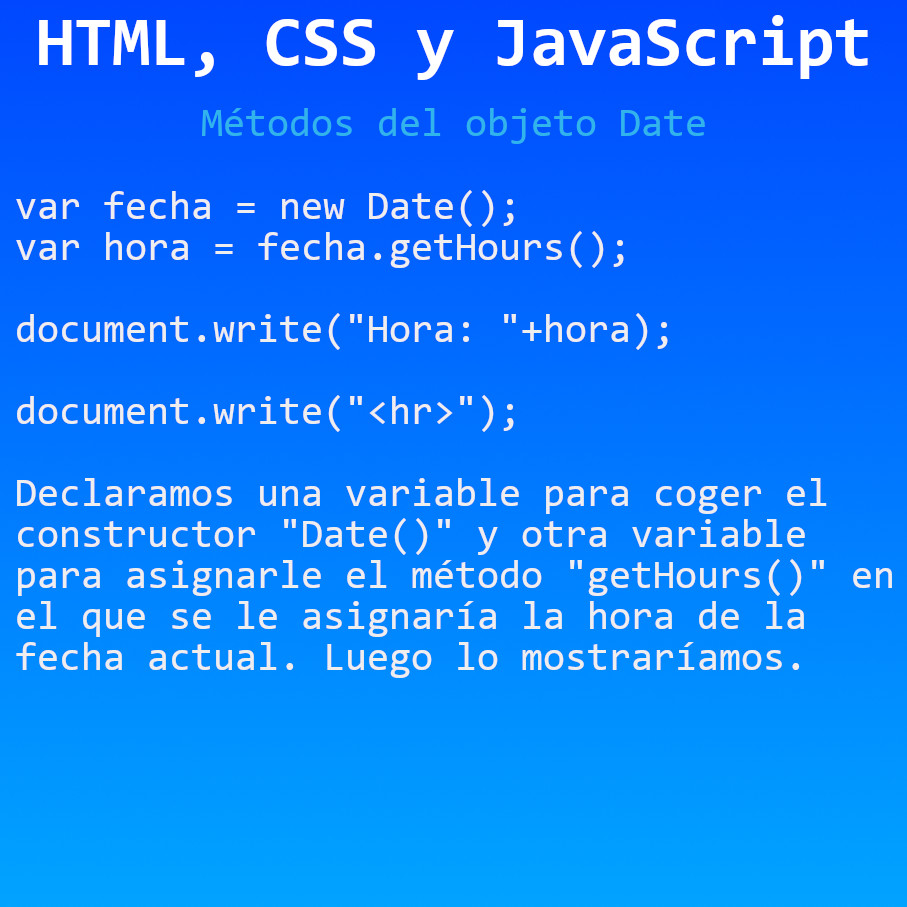
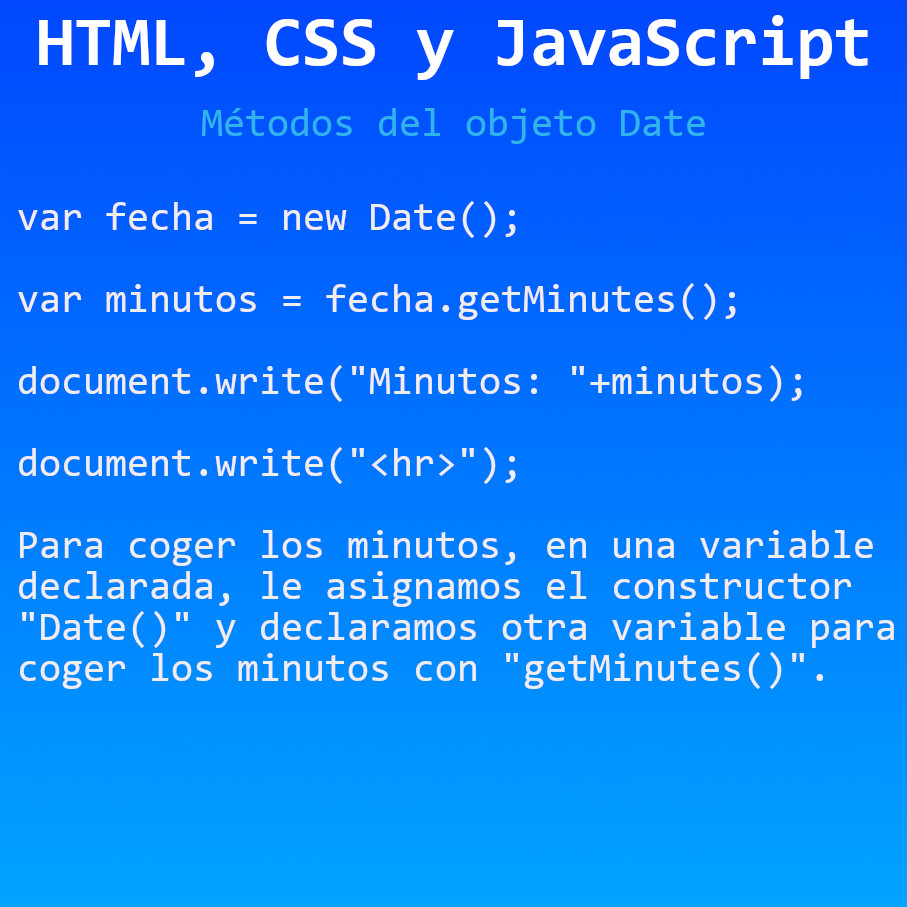
Métodos del objeto Date
Métodos del objeto Date en JavaScript

Changed region(s): [[0.0, 0.2161, 0.9879, 0.7718]]

diff --git a/HTML, CSS y JavaScript/Métodos del objeto Date/js/funciones.js b/HTML, CSS y JavaScript/Métodos del objeto Date/js/funciones.js
@@ -25,3 +25,10 @@ var hora = fecha.getHours();
 document.write("Hora: "+hora);
 // SALTO DE LÍNEA
 document.write("<hr>");
+// VER MINUTOS
+// coger minutos de la fecha actual
+var minutos = fecha.getMinutes();
+// MOSTRAR EN PANTALLA
+document.write("Minutos: "+minutos);
+// SALTO DE LÍNEA
+document.write("<hr>");
